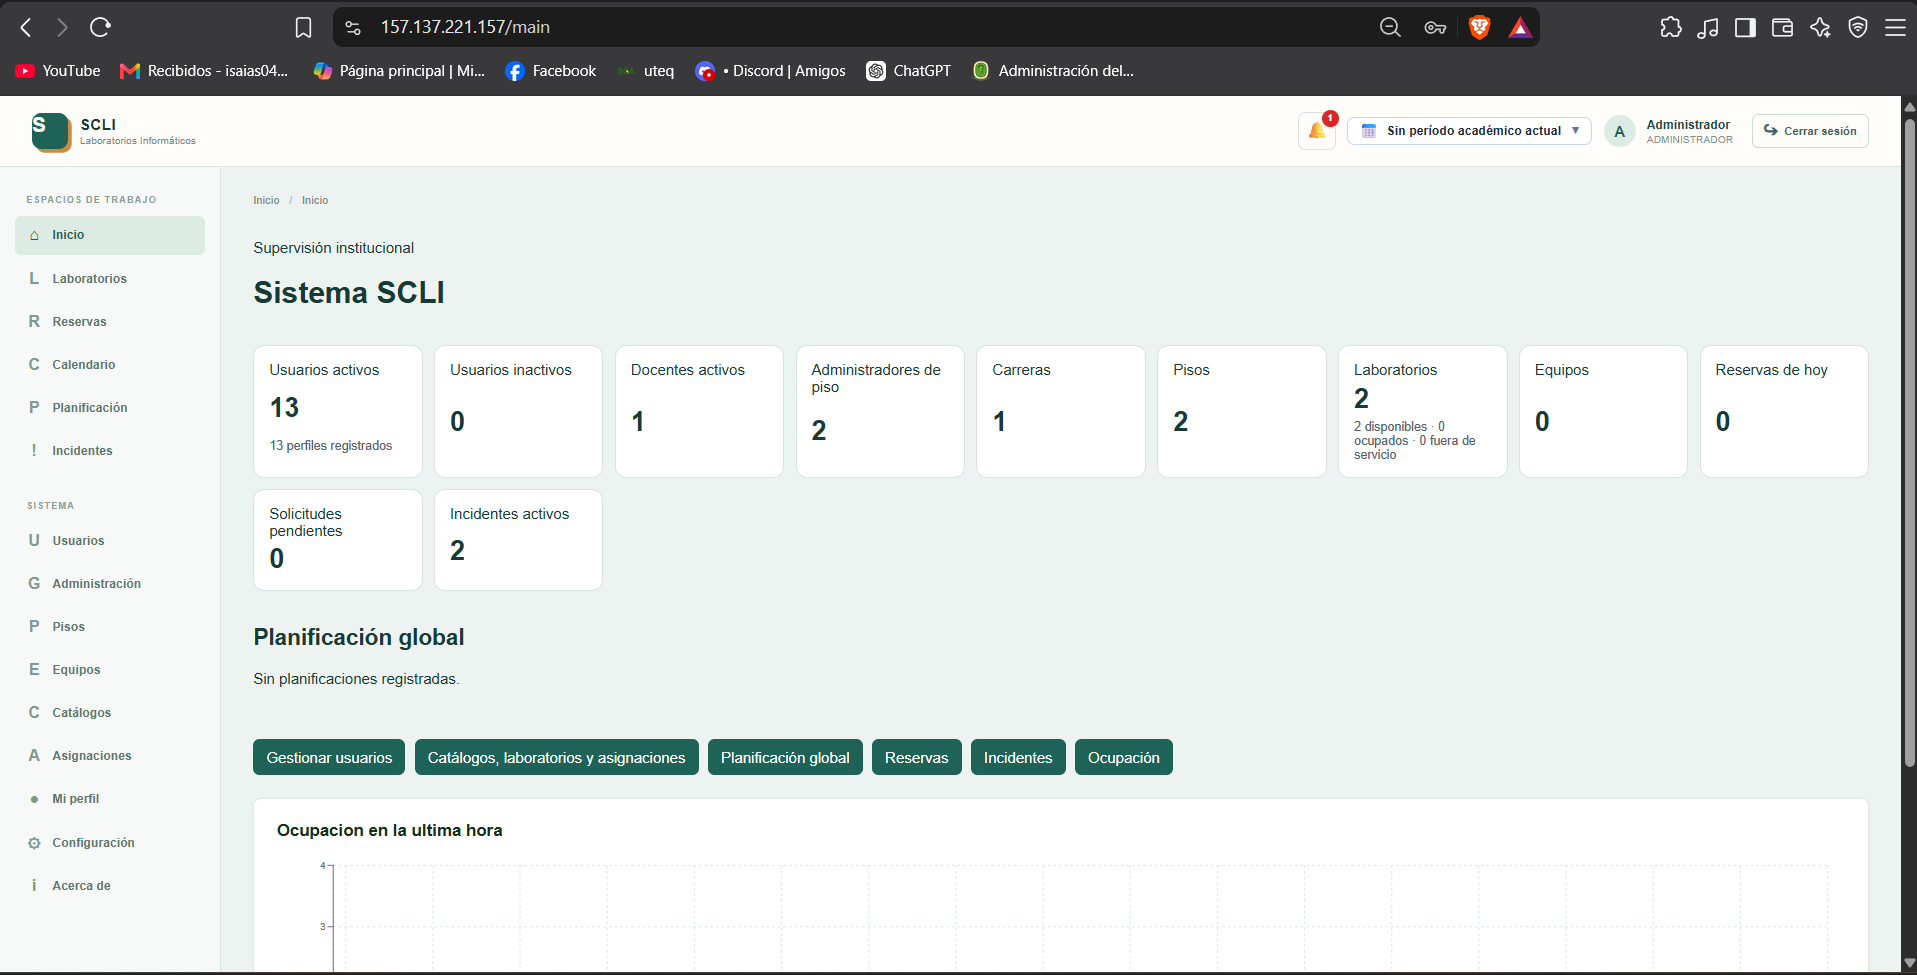
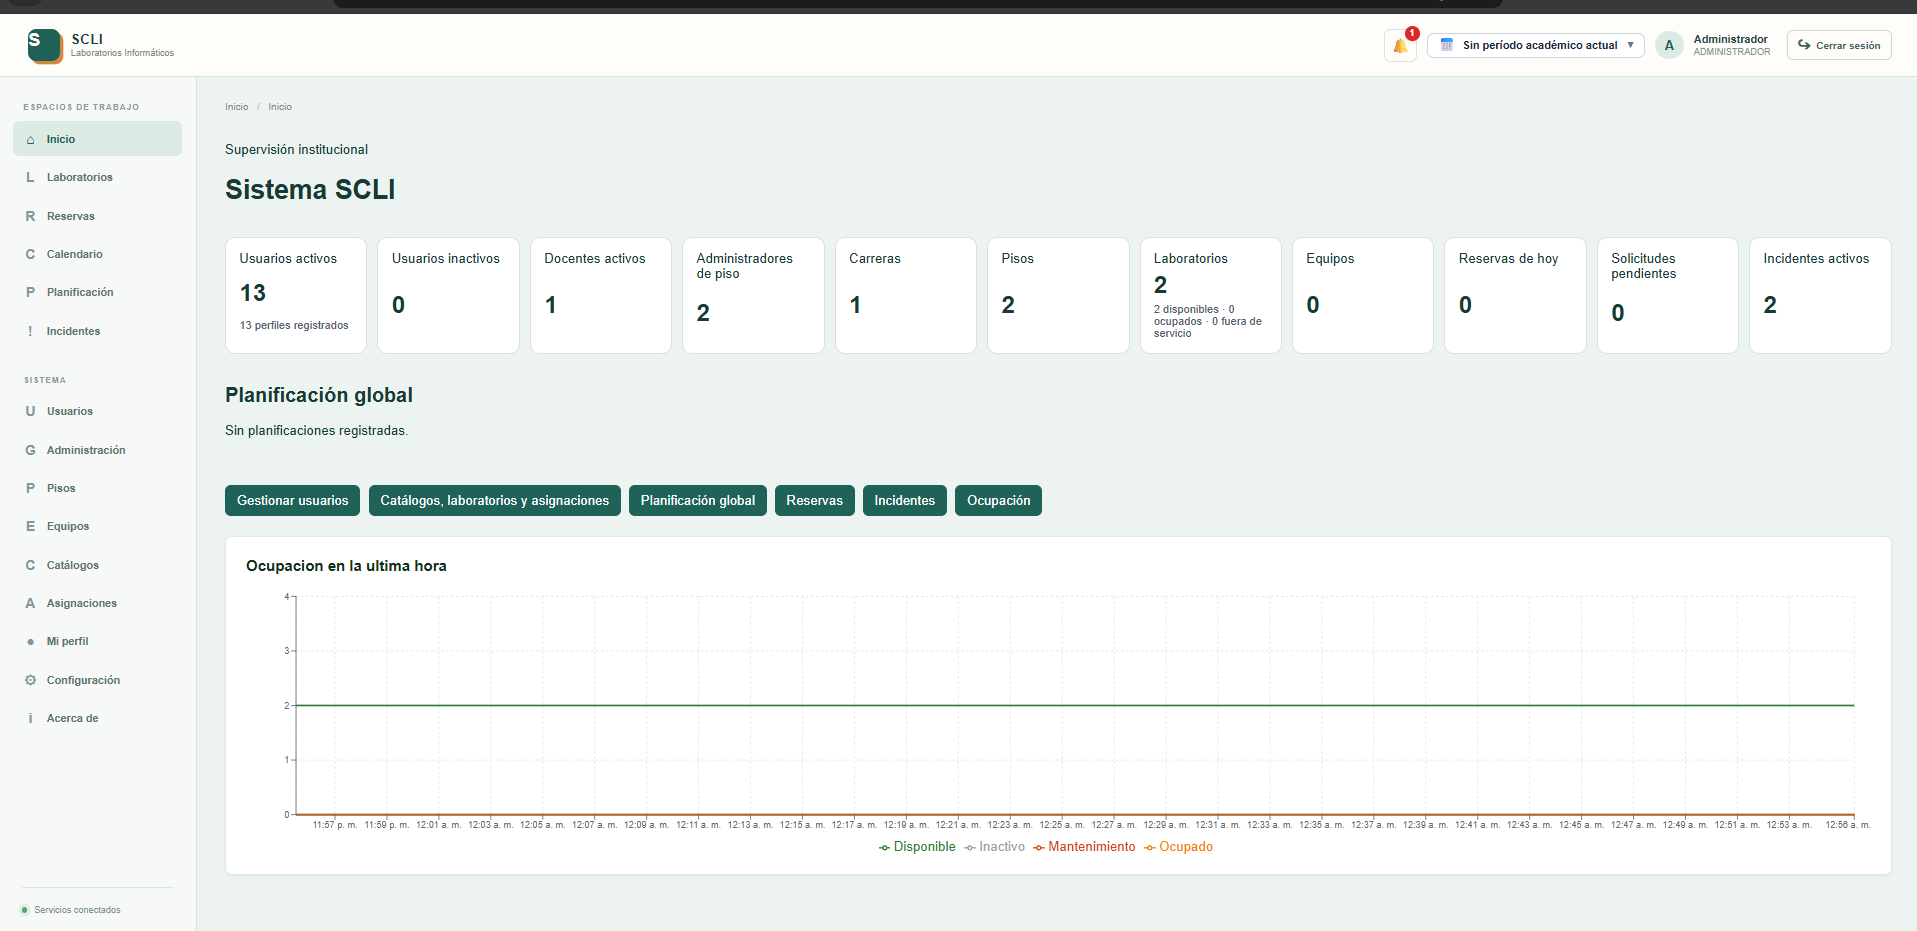
docs(e28): cerrar evidencias release web y movil

diff --git a/docs/main.tex b/docs/main.tex
@@ -1674,14 +1674,23 @@ datos reales del despliegue usados durante la validación.
   \label{fig:web-release}
 \end{figure*}
 
-La Figura~\ref{fig:mobile-release} presenta la aplicación Android ejecutándose
-en el entorno desplegado, con las vistas de inicio, reservas, incidentes y el
-resultado posterior a un escaneo QR real. Esta validación móvil corresponde al
-APK oficial release \texttt{scli-mobile-v1.0.1-release.apk}, versión
+Las figuras web de release se presentan recortadas para evitar exponer
+elementos personales del navegador. La ejecución web se validó mediante HTTPS;
+como evidencia complementaria versionada,
+\texttt{docs/evidencias/web-https-validado-2026-09-21.png} documenta
+visualmente el acceso web sin el aviso ``No es seguro''.
+
+La Figura~\ref{fig:mobile-release} reúne las cuatro capturas móviles del
+conjunto release usadas como evidencia de validación contemporánea: inicio o
+dashboard, reservas, incidentes y resultado QR. La captura
+\texttt{mobile-qr-release.png} conserva la validación QR real del 2026-09-20,
+respaldada en \texttt{docs/evidencias/qr-e2e-2026-09-20.md} y
+\texttt{docs/evidencias/qr-resultado-laboratorio-2026-09-20.png}; las tres
+capturas restantes fueron renovadas durante el cierre del punto \#28 para
+sustituir el conjunto histórico anterior. La validación se realizó con el APK
+oficial release \texttt{scli-mobile-v1.0.1-release.apk}, versión
 \texttt{v1.0.1}, con SHA-256
 \texttt{a6504201aa9d7aaf16299c6417ff33d8f1b42f129508ce708335b859dd454ad8}.
-La evidencia fue registrada el 2026-09-20 y se respalda en
-\texttt{docs/evidencias/qr-e2e-2026-09-20.md}.
 
 \begin{figure*}[t]
   \centering
